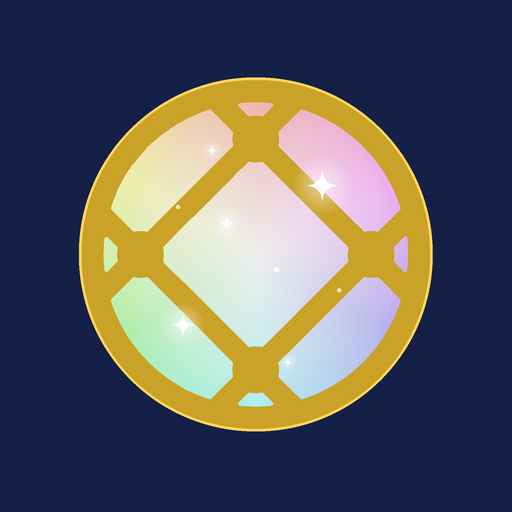
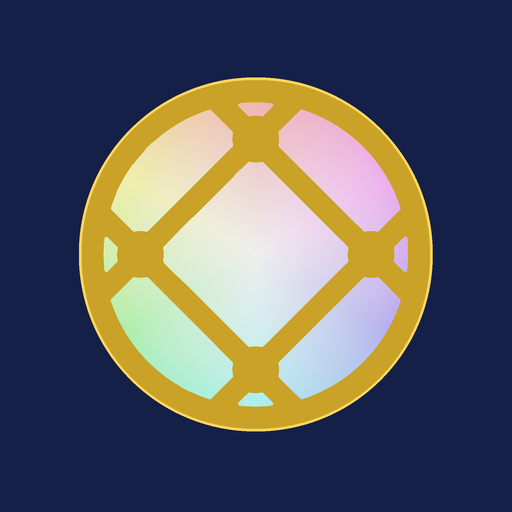
Add files via upload

diff --git a/sw.js b/sw.js
@@ -1,4 +1,4 @@
-/* Lífsteinn service worker — cache generation: lifsteinn-v1
+/* Lífsteinn service worker — cache generation: lifsteinn-v2 (bumped to release restyled icons/favicons)
    Strategy (as agreed):
    - Navigations: network-first with a 3s timeout, falling back to the cached
      app shell, so deploys show up immediately but offline still works.
@@ -7,7 +7,7 @@
    - activate deletes every cache that isn't ours, which purges any cache
      left behind by older versions of the app regardless of its name. */
 
-const CACHE = 'lifsteinn-v1';
+const CACHE = 'lifsteinn-v2';
 const RUNTIME = 'lifsteinn-rt-v1';
 const SHELL = './index.html';
 const PRECACHE = [